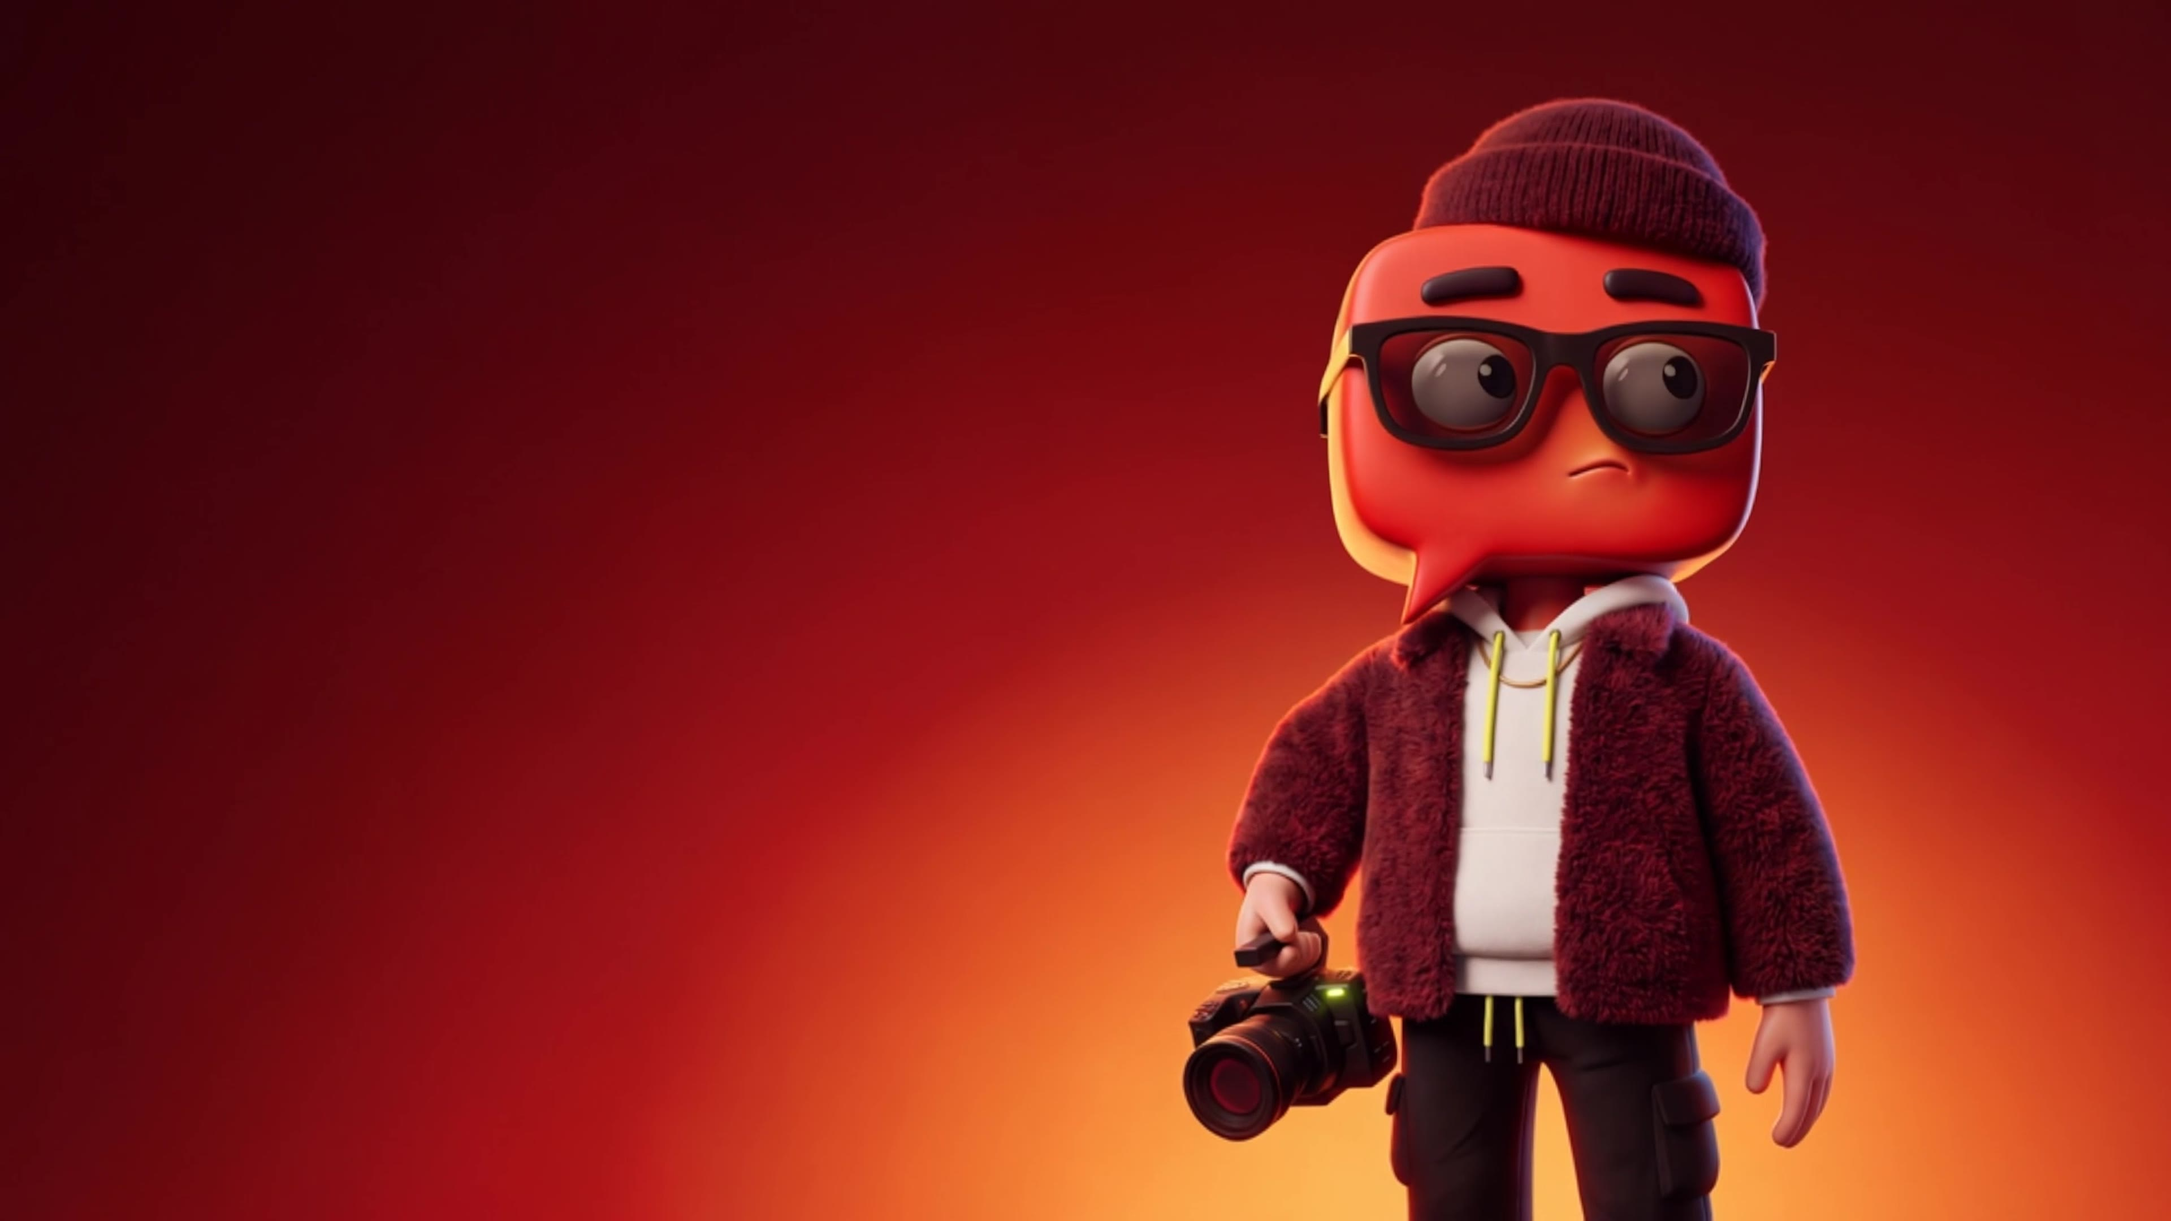
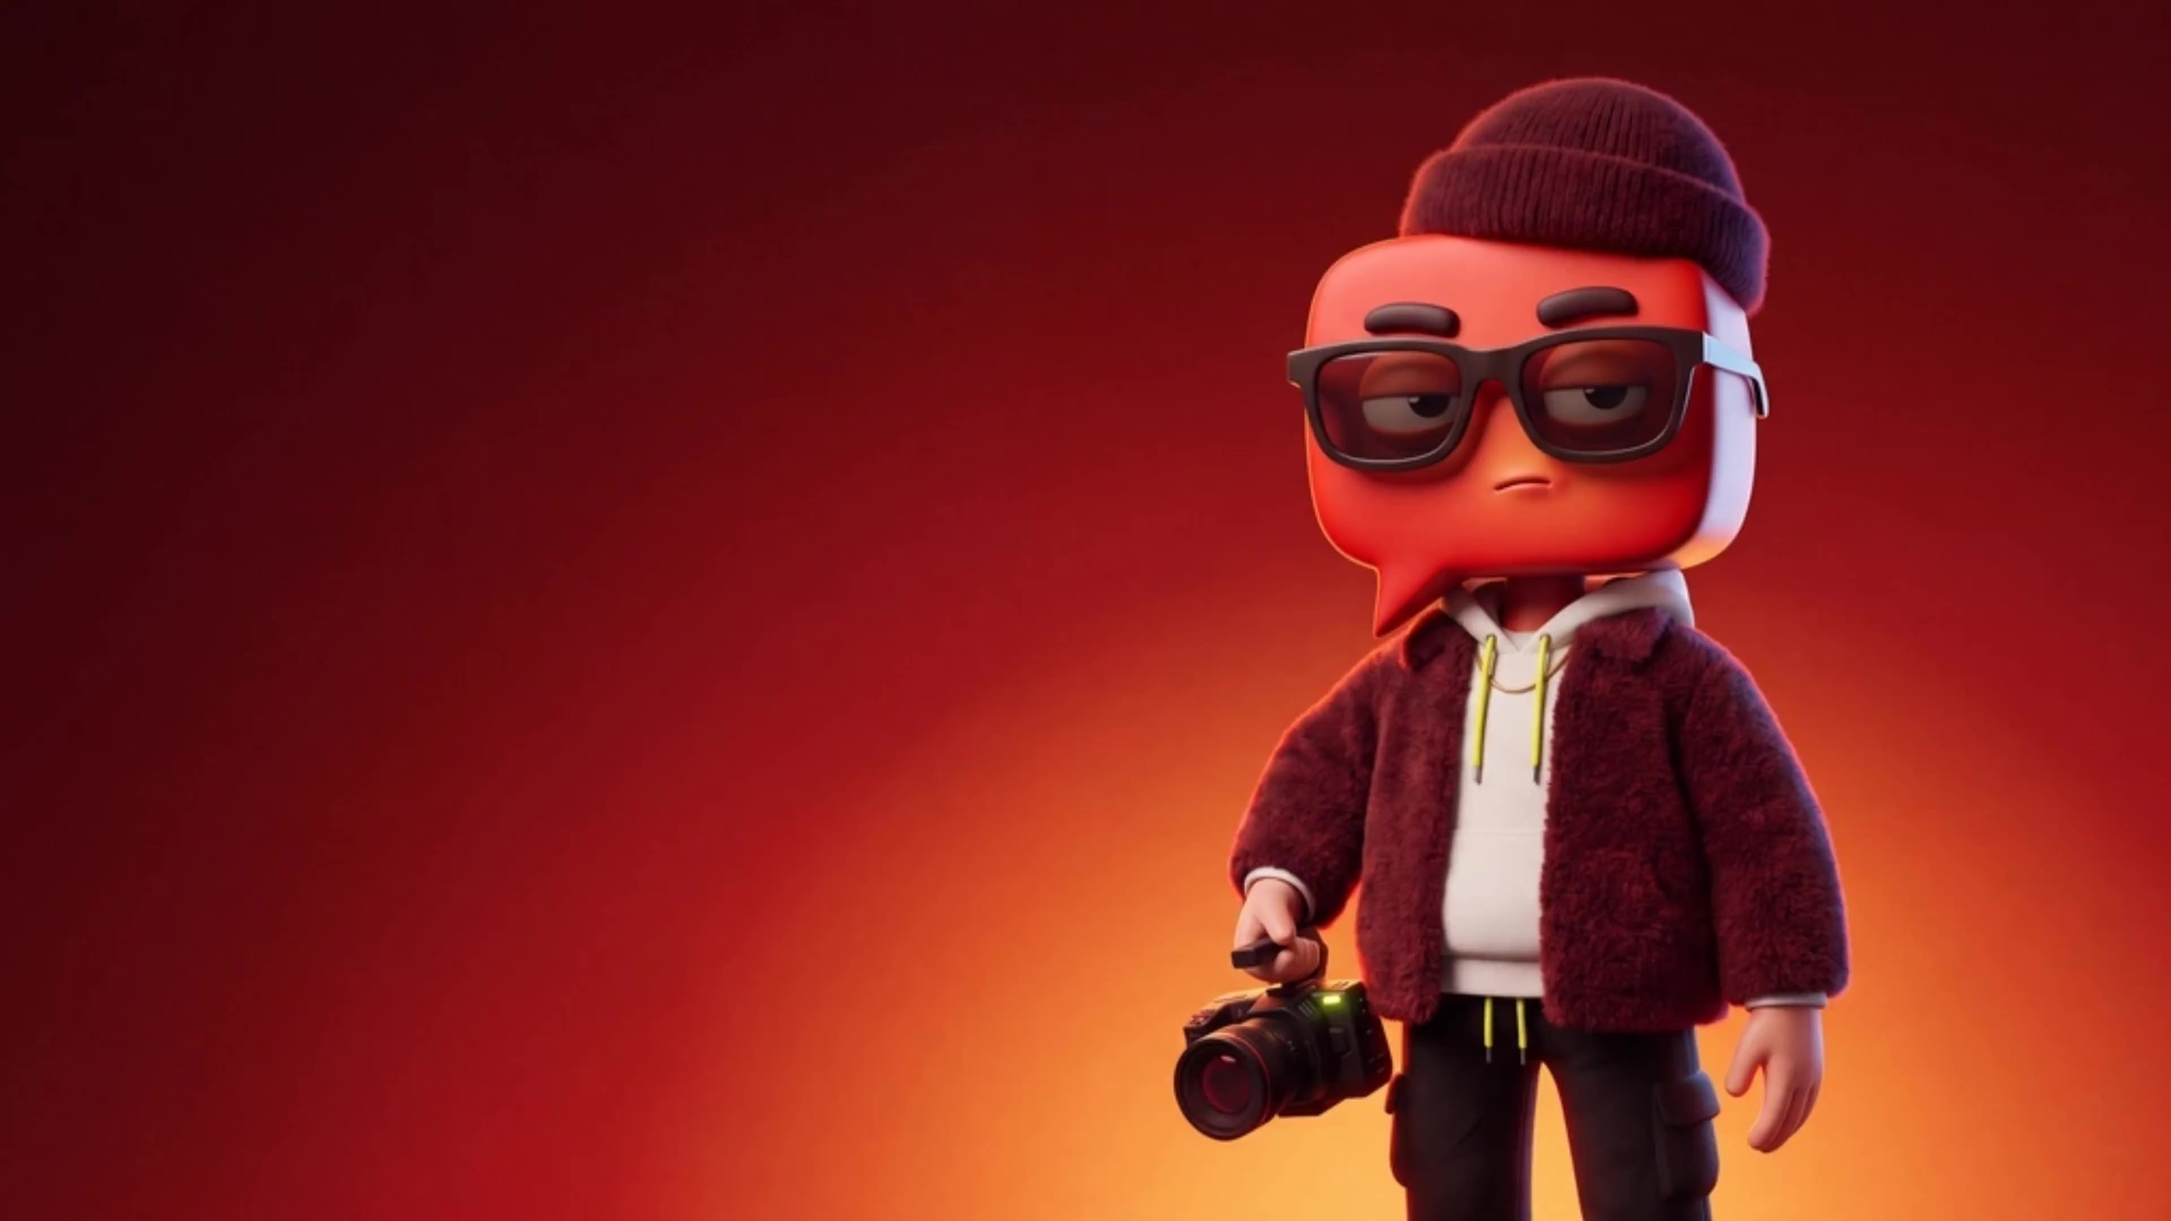
Latest build; drop the old repo's custom-domain file
Rebuilds both pages from the current builder and removes the CNAME pointing at
hellovoice2.co.uk — a domain that was never registered, and which made GitHub
redirect every request away from a perfectly healthy deployment. Carrying it
into a new repo would reproduce the same dead link on day one.

Changed region(s): [[0.5312, 0.062, 0.875, 0.9616], [0.625, 0.9926, 0.6562, 1.0]]

diff --git a/site/assets/js/motion.js b/site/assets/js/motion.js
@@ -2329,181 +2329,114 @@
   });
 
   /* ------------------------------------------------------------- hero film
-   * The hero character is an 8-second film and the pointer drives it: move the
-   * cursor and he follows it, hold still and he settles.
+   * The hero character is an 8-second film and the scroll position drives it:
+   * the page is the transport. At the top of the document he is on his first
+   * frame; by the time the hero has cleared the viewport the film has run out.
    *
-   * The clip is an idle wander rather than a tracking rig, so only a window of
-   * it is usable — see SEG_IN / SEG_OUT below, which is where his gaze actually
-   * crosses from left to right.
+   * It used to be the cursor. That was abandoned because a pre-rendered clip
+   * only contains the gaze directions that were rendered into it, and the
+   * lookup that picked the nearest one ignored where in the film it sat — so
+   * neighbouring points on screen could be seconds apart in the take, and his
+   * eyes ran through the whole performance on the way between them. Scroll has
+   * none of that problem: it is monotonic, so the film runs in its own order
+   * and every frame is seen once, in the order it was shot.
    *
-   * Position is eased rather than set outright. Assigning the pointer straight
-   * to the film makes him snap frame to frame and read as a scrubber being
-   * dragged; approaching the target by a fraction each frame gives him weight
-   * and lets him arrive a beat after the cursor does, which is what reads as
-   * something alive rather than something wired to an input. */
+   * Range is the hero's own height, so the scrub is self-scaling — a tall
+   * viewport gets a long scrub and a short one a short scrub, and neither needs
+   * a magic number. */
   (function heroFilm() {
     var film = $("[data-hero-film]");
     var hero = film && film.closest(".hero_section");
-    if (!film || !hero || reduced) return;
+    if (!film || !hero) return;
 
+    /* Reduced motion keeps the first frame and never seeks. The poster is cut
+     * from frame 0, so what is shown is what the film would show anyway — the
+     * character is still there, he simply does not move. */
+    if (reduced) {
+      film.classList.add("is-ready");
+      return;
+    }
 
-    /* The whole render, with the cursor choosing a destination in it and the
-     * film travelling there.
-     *
-     * The earlier versions eased the cursor and then looked up a frame, which
-     * meant any large move landed as a jump — and cutting between frames that
-     * are not neighbours is what made the pose atlas feel mechanical. This eases
-     * the *time* instead. The cursor names a target moment in the film; the film
-     * scrubs toward it and plays every frame on the way. Nothing is cut, nothing
-     * is reordered, and he arrives by moving rather than by snapping.
-     *
-     * That also frees the speed to vary, which is what makes the whole render
-     * usable. The gaze does not travel evenly through the eight seconds — it
-     * lingers, doubles back, drifts up. Because the film only has to *reach* the
-     * target rather than track the cursor proportionally, the stretches that go
-     * the wrong way are simply crossed quickly on the way to somewhere useful.
-     *
-     * GAZE is a 9x9 grid over the viewport. Each entry is the moment whose eye
-     * direction best matches that corner of the screen, measured frame by frame
-     * across the render — horizontally and vertically, so looking up and down is
-     * reachable too, which a single left-to-right cut could never offer. */
-    var GAZE_G = 9;
-    var GAZE = [4.0417, 4.0417, 4.125, 4.5833, 4.75, 4.8333, 5.0, 5.0, 5.0, 4.0417, 3.9167, 3.875, 4.7083, 4.8333, 5.0, 5.0, 5.0417, 3.4167, 3.8333, 3.8333, 3.7917, 3.75, 5.0417, 5.125, 5.2083, 3.4167, 3.3333, 1.9167, 3.7917, 3.75, 3.7083, 3.6667, 5.25, 3.5, 3.4167, 2.9167, 1.9167, 1.625, 1.4167, 3.6667, 5.3333, 5.4167, 3.4167, 3.3333, 2.9167, 2.0, 1.875, 0.9167, 2.25, 7.0, 5.625, 7.0833, 3.25, 2.7917, 2.0833, 2.2083, 0.7083, 6.25, 2.2917, 2.3333, 2.4583, 2.5, 2.6667, 7.25, 6.5417, 0.1667, 7.1667, 0.25, 0.5, 0.2917, 0.4583, 2.5833, 6.9167, 7.2083, 7.2083, 7.1667, 0.25, 0.25, 0.5, 0.4583, 0.4583];
-
-    var duration = 0;
-    /* Rest on the pose the centre of the screen asks for.
-     *
-     * Not zero, and not an arbitrary midpoint. Whatever this is, it is the pose
-     * every touch device holds forever — without a fine pointer no pointermove
-     * ever arrives to move him off it — so it should be the one a cursor resting
-     * in the middle of the screen would produce, which is the grid's centre
-     * cell. The poster is rendered from this same moment, so the handover from
-     * still to film shows no shift at all. */
-    var REST = 2.5833;
-    var targetT = REST;   // the moment in the film the cursor is asking for
-    var shownT = REST;    // where the film actually is, travelling toward it
-    /* The film may cross at most this much of itself per frame. Without it a
-     * distant target is reached in one step, which is a cut; with it he travels
-     * there and every frame in between is seen. Four frames a tick at 60Hz is
-     * roughly four times speed — quick enough to feel responsive, slow enough
-     * to read as movement. */
-    /* 0.16 rather than 0.09. At 60fps the old value needed about half a second
-     * to close on the cursor, which on a gaze this subtle read as him not
-     * responding at all rather than as weight. This lands in roughly a quarter
-     * of a second — still eased, but the eyes arrive while you are still
-     * thinking about having moved. */
+    var shownT = 0;   // where the film is, so a seek is only issued on a change
+    var state = { p: 0 };
 
     /* Seeking a video the browser has never decoded returns a blank frame on
      * iOS. Playing it muted for one instant and pausing forces the decoder up
      * without the visitor seeing motion. */
     function prime() {
-      var p = film.play();
-      if (p && p.then) p.then(function () { film.pause(); }, function () {});
+      var q = film.play();
+      if (q && q.then) q.then(function () { film.pause(); }, function () {});
       else film.pause();
     }
 
-    /* The rest pose has to be seeked to outright. apply() only moves the film
-     * when there is a gap between where it is and where it is wanted, and at
-     * rest there is none — so without this the element sits on its own first
-     * frame while the poster shows a different one, and the handover flicks. */
-    function settle() {
-      try { film.currentTime = REST; } catch (err) { /* not seekable yet */ }
-    }
-
-    film.addEventListener("loadedmetadata", function () {
-      duration = film.duration || 0;
-      prime();
-      settle();
-    });
-
     /* Only paint once a real frame is decoded, so the poster does not flick to
-     * black in the handover. "seeked" alone is not enough: at rest the film is
-     * already at 0 and the first seek asks it to go to 0, which is not a move
-     * and emits no event. */
+     * black in the handover. "seeked" alone is not enough: at the top of the
+     * page the film is already at 0 and the first seek asks it to go to 0,
+     * which is not a move and emits no event. */
     function markReady() { film.classList.add("is-ready"); }
     film.addEventListener("seeked", markReady, { once: true });
     film.addEventListener("loadeddata", markReady, { once: true });
     if (film.readyState >= 2) markReady();
 
-    /* The pointer is read against the viewport, not the hero. He keeps
-     * answering the cursor while it is anywhere on screen, which is the whole
-     * point of him watching you. */
-    /* No pointer:fine gate.
-     *
-     * It used to sit here, on the reasoning that a touch device has no cursor to
-     * follow. But the query is read once, at load, and a browser that answers it
-     * "false" at that moment — which some do before the first input arrives —
-     * left the listener unattached for the life of the page: the film held its
-     * rest pose no matter where the cursor went, which is exactly the symptom
-     * that was reported. The gate bought nothing anyway. A device with no
-     * pointer fires no pointermove, so it holds the rest pose regardless. */
-    window.addEventListener("pointermove", function (ev) {
-      var x = ev.clientX / window.innerWidth;
-      var y = ev.clientY / window.innerHeight;
-      x = x < 0 ? 0 : x > 1 ? 1 : x;
-      y = y < 0 ? 0 : y > 1 ? 1 : y;
-      var gx = Math.round(x * (GAZE_G - 1));
-      var gy = Math.round(y * (GAZE_G - 1));
-      targetT = GAZE[gy * GAZE_G + gx];
-      /* Step here as well as in the frame loop.
-       *
-       * The loop was the only caller of apply(), and a browser that has
-       * throttled or suspended requestAnimationFrame — a background tab, a
-       * hidden panel, a machine saving power — stops calling it at all. The
-       * target then updated correctly on every cursor move with nothing acting
-       * on it, and he sat on his rest pose. Measured in that state: target
-       * 4.042, shown 2.583, and zero animation frames in two seconds.
-       *
-       * Stepping from the event too means the cursor always moves him; the loop
-       * is left to do the thing only it can, which is carry the easing onward
-       * after the cursor has stopped. */
-      apply();
-    }, { passive: true });
+    film.addEventListener("loadedmetadata", prime);
+    if (film.readyState >= 1) prime();
 
     function apply() {
-      /* Read from the element, not from a variable captured at startup.
-       *
-       * The cached copy was set in the loadedmetadata handler and in a
-       * readyState check that ran once. Whenever both missed — the metadata
-       * already in when the script ran, or still absent — it stayed 0, this
-       * returned on every frame, and the film held its rest pose no matter
-       * where the cursor went. That is the bug that was reported, and it is
-       * not reproducible with a synthetic event fired after load, which is why
-       * it survived several passes of testing. */
+      /* Read the duration from the element rather than caching it at startup.
+       * A cached copy set in a load handler is 0 whenever that handler missed —
+       * metadata already in when the script ran, or still absent — and then
+       * every seek is skipped and the film holds one frame for the whole
+       * scroll. That failure is not reproducible after load, which is why the
+       * cached version survived several passes of testing. */
       var duration = film.duration;
       if (!duration || !isFinite(duration)) return;
-      /* Straight to the pose the cursor asks for, rather than travelling there.
-       *
-       * Travelling kept the motion smooth but it is why he did not appear to
-       * follow anything: the lookup picks the closest gaze wherever it sits in
-       * the film, so neighbouring points on screen can be seconds apart in it —
-       * 31 of the 144 neighbouring pairs are over 40 frames apart, the worst
-       * 169. Crossing those meant his eyes ran through the whole performance on
-       * the way, and only pointed at the cursor once it stopped.
-       *
-       * Cutting instead, the gaze is right at every instant. It costs the
-       * in-between motion. That is cheap here because the render barely moves
-       * his body — 17px across every frame the grid uses — so a cut reads as
-       * his eyes flicking rather than as him jumping. */
-      if (Math.abs(targetT - shownT) < 1 / 48) return;
-      shownT = targetT;
-      if (shownT < 0) shownT = 0;
-      else if (shownT > duration) shownT = duration;
-      try { film.currentTime = shownT; } catch (err) { /* not seekable yet */ }
+      var t = state.p * duration;
+      if (t < 0) t = 0;
+      else if (t > duration) t = duration;
+      /* One frame of the source is 1/24s. Seeking for less than that decodes a
+       * 4K frame to show the same picture — the whole cost and none of the
+       * benefit. */
+      if (Math.abs(t - shownT) < 1 / 24) return;
+      shownT = t;
+      try { film.currentTime = t; } catch (err) { /* not seekable yet */ }
     }
 
-    /* Driven from a frame loop rather than from pointermove directly, so the
-     * easing advances on its own after the cursor stops and he coasts to a
-     * halt instead of freezing mid-turn. Idles while the hero is off screen. */
-    function frame() {
-      requestAnimationFrame(frame);
-      var r = hero.getBoundingClientRect();
-      if (r.bottom < -200 || r.top > window.innerHeight + 200) return;
-      apply();
-    }
-    requestAnimationFrame(frame);
-
-    if (film.readyState >= 1) { duration = film.duration || 0; prime(); settle(); }
+    /* Pinned, so the film gets the screen to itself.
+     *
+     * Without the pin the hero scrolls away while the film is still running and
+     * the last third of the take plays off the top of the viewport — the part
+     * nobody sees is the part he finishes on. Pinning holds the section still
+     * until the film has run out, then releases the page into the section
+     * below, so the whole eight seconds happens in front of the viewer.
+     *
+     * The distance is a viewport and a half rather than a fixed pixel count.
+     * Scroll speed scales with screen size, so a number that feels unhurried on
+     * a laptop feels interminable on a large display; expressing it in screens
+     * keeps the pace the same everywhere. It is a function so a resize
+     * remeasures instead of keeping the height the page loaded at.
+     *
+     * Scrubbed through a proxy value rather than seeking straight from the
+     * scroll position. scrub carries the film on for a beat after the wheel
+     * stops, so he coasts to a halt instead of freezing on the exact frame the
+     * scroll ended on. */
+    gsap.to(state, {
+      p: 1,
+      ease: "none",
+      onUpdate: apply,
+      scrollTrigger: {
+        trigger: hero,
+        start: "top top",
+        end: function () { return "+=" + Math.round(window.innerHeight * 1.5); },
+        pin: true,
+        pinSpacing: true,
+        /* Pins taken at speed can show one frame of the unpinned position
+         * before the pin engages. Pinning a beat early costs nothing and
+         * removes the flash. */
+        anticipatePin: 1,
+        scrub: 0.6,
+        invalidateOnRefresh: true
+      }
+    });
   })();
 
   /* Initial states are in place — let the stylesheet show them. */

diff --git a/site/index.html b/site/index.html
@@ -155,5 +155,5 @@
 <script src="/assets/vendor/ScrollTrigger.min.js"></script>
 <script src="/assets/vendor/SplitText.min.js"></script>
 <script src="/assets/vendor/lenis.min.js"></script>
-<script src="/assets/js/motion.js?v=ba3748f1"></script>
+<script src="/assets/js/motion.js?v=4a64944c"></script>
 </body></html>

diff --git a/site/projects/index.html b/site/projects/index.html
@@ -207,5 +207,5 @@
 <script src="/assets/vendor/ScrollTrigger.min.js"></script>
 <script src="/assets/vendor/SplitText.min.js"></script>
 <script src="/assets/vendor/lenis.min.js"></script>
-<script src="/assets/js/motion.js?v=ba3748f1"></script>
+<script src="/assets/js/motion.js?v=4a64944c"></script>
 </body></html>

diff --git a/site/404.html b/site/404.html
@@ -15,5 +15,5 @@
 <script src="/assets/vendor/ScrollTrigger.min.js"></script>
 <script src="/assets/vendor/SplitText.min.js"></script>
 <script src="/assets/vendor/lenis.min.js"></script>
-<script src="/assets/js/motion.js?v=ba3748f1"></script>
+<script src="/assets/js/motion.js?v=4a64944c"></script>
 </body></html>

diff --git a/site/about-us/index.html b/site/about-us/index.html
@@ -93,5 +93,5 @@
 <script src="/assets/vendor/ScrollTrigger.min.js"></script>
 <script src="/assets/vendor/SplitText.min.js"></script>
 <script src="/assets/vendor/lenis.min.js"></script>
-<script src="/assets/js/motion.js?v=ba3748f1"></script>
+<script src="/assets/js/motion.js?v=4a64944c"></script>
 </body></html>

diff --git a/site/contact-us/index.html b/site/contact-us/index.html
@@ -15,5 +15,5 @@
 <script src="/assets/vendor/ScrollTrigger.min.js"></script>
 <script src="/assets/vendor/SplitText.min.js"></script>
 <script src="/assets/vendor/lenis.min.js"></script>
-<script src="/assets/js/motion.js?v=ba3748f1"></script>
+<script src="/assets/js/motion.js?v=4a64944c"></script>
 </body></html>

diff --git a/site/service/index.html b/site/service/index.html
@@ -28,5 +28,5 @@
 <script src="/assets/vendor/ScrollTrigger.min.js"></script>
 <script src="/assets/vendor/SplitText.min.js"></script>
 <script src="/assets/vendor/lenis.min.js"></script>
-<script src="/assets/js/motion.js?v=ba3748f1"></script>
+<script src="/assets/js/motion.js?v=4a64944c"></script>
 </body></html>

diff --git a/site/service/influencer-campaigns/index.html b/site/service/influencer-campaigns/index.html
@@ -15,5 +15,5 @@
 <script src="/assets/vendor/ScrollTrigger.min.js"></script>
 <script src="/assets/vendor/SplitText.min.js"></script>
 <script src="/assets/vendor/lenis.min.js"></script>
-<script src="/assets/js/motion.js?v=ba3748f1"></script>
+<script src="/assets/js/motion.js?v=4a64944c"></script>
 </body></html>

diff --git a/site/service/technology-activations/index.html b/site/service/technology-activations/index.html
@@ -15,5 +15,5 @@
 <script src="/assets/vendor/ScrollTrigger.min.js"></script>
 <script src="/assets/vendor/SplitText.min.js"></script>
 <script src="/assets/vendor/lenis.min.js"></script>
-<script src="/assets/js/motion.js?v=ba3748f1"></script>
+<script src="/assets/js/motion.js?v=4a64944c"></script>
 </body></html>
